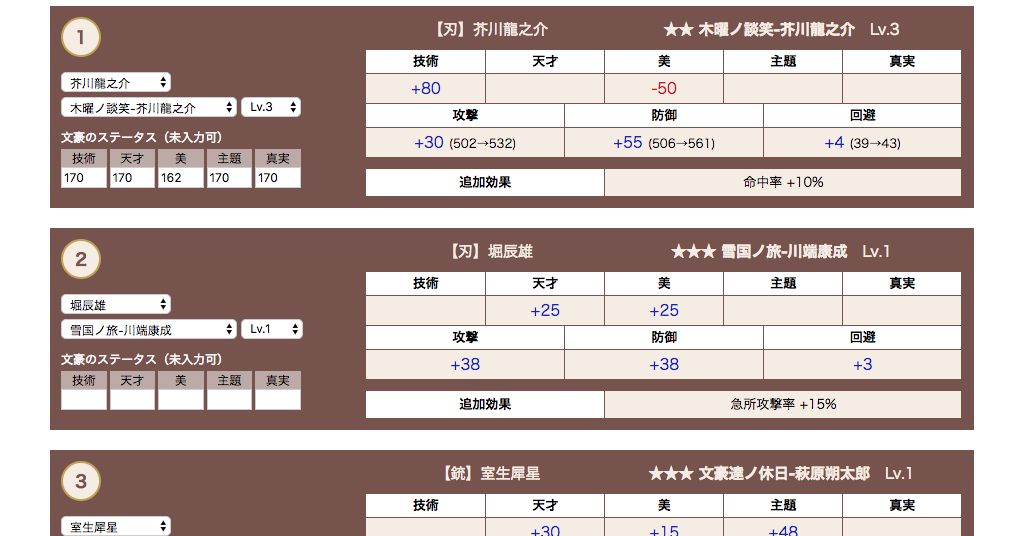
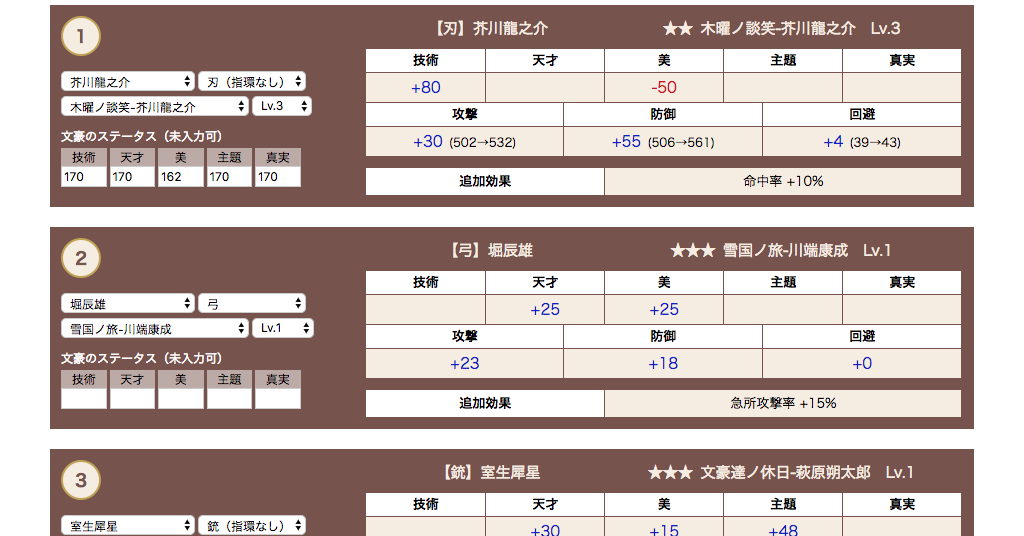
履歴更新など

diff --git a/src/pageinfo.js b/src/pageinfo.js
@@ -5,8 +5,8 @@ const meta = {
     '文豪とアルケミスト（文アル）の文豪と装像から攻撃・防御・回避の増減値をシミュレートするツール。文豪個別のステータス入力にも対応、攻撃・防御・回避の最終的な数値も出せます。さらに4人分入力できるので、会派編成にも装像比較にも使えます！',
   twauthor: '@kotorieclair',
   twcard: 'summary_large_image',
-  url: 'https://kotorieclair.github.io/bnal-souzou-calc/',
-  image: 'https://kotorieclair.github.io/bnal-souzou-calc/img/cover.png',
+  url: 'https://bnal-souzou-calc.netlify.com',
+  image: 'https://bnal-souzou-calc.netlify.com/img/cover.png',
 }
 
 const links = {
@@ -15,7 +15,7 @@ const links = {
     'https://twitter.com/hashtag/%E8%A3%85%E5%83%8F%E8%A8%88%E7%AE%97%E6%A9%9F?src=hash',
   marshmallow:
     'https://marshmallow-qa.com/kotorieclair?utm_medium=url_text&utm_source=promotion',
-  github: 'https://github.com/kotorieclair/bnal-souzou-calc/',
+  github: 'https://github.com/kotorieclair/bnal-souzou-calc-ts/',
 }
 
 module.exports = {

diff --git a/src/index.html b/src/index.html
@@ -37,8 +37,8 @@
       <p>詳しくは<a href="#help">ページ下部のご案内</a>をご覧ください。</p>
       <div class="header_flex">
         <p class="header_box">
-          2019.04.28　<span class="text-red">NEW!!</span> 文豪と装像のデータ、追加いたしました！<br>
-          2019.02.26　装像「甘心ノ茶席」「猫町ノ幻燈」「動物そろばん」追加いたしました！<br>
+          2019.06.17　<span class="text-red">NEW!!</span> お待たせいたしました、指環に対応いたしました！文豪「コナン・ドイル」「ルイス・キャロル」も追加です！<br>
+          2019.06.14　2019/6/13までの文豪と装像のデータ、たくさん追加いたしました！<br>
           （その他お知らせはTwitterにてハッシュタグ <a href="<%= htmlWebpackPlugin.options.links.twitterInfo %>" target="_blank">#装像計算機</a> で行なっております。そちらもご覧ください！）
         </p>
         <p class="header_box">

diff --git a/src/app.tsx b/src/app.tsx
@@ -1,6 +1,7 @@
 import * as React from 'react'
 import * as ReactDOM from 'react-dom'
 import BnalSouzouCalc from '~/components/BnalSouzouCalc'
+import '~/img/cover.png'
 import {
   initialState as data,
   StateContext as DataStateContext,

diff --git a/README.md b/README.md
@@ -1,0 +1,47 @@
+# bnal-souzou-calc
+
+文豪とアルケミスト（文アル）の文豪と装像から攻撃・防御・回避の増減値をシミュレートするツール。  
+文豪個別のステータス入力にも対応、攻撃・防御・回避の最終的な数値も算出可能。  
+4人分入力可能なので、会派編成にも同一文豪での装像比較にも使えます！
+
+## 更新履歴
+- 2019.06.17 - ver. 2公開（指環機能実装、React+TS化）、文豪データ更新（コナン・ドイル、ルイス・キャロル）
+- 2019.06.14 - 文豪データ（三木露風）、装像データ（★3忠心ノ相棒、★3旅枕ノ定式、★3牧歌ト陽光、★3丁カ半カ、★3孤高ノ賭博師、★3奇術師ノ独擅場、★3形家ノ心眼、★2蔽ワレシ擬態者）追加
+- 2019.04.28 - 文豪データ（中里介山）、装像データ（★3桜花ノ杯、★3添イ寝ノ友、★3満腹ノ作リ方、★3夢想ノ偶像、★3集イシ英傑、★3暮春ノ行楽、★1緑の使者、★1色褪せた画材）追加
+- 2019.02.26 - 装像データ（★3甘心ノ茶席、★3猫町ノ幻燈、★1動物そろばん）追加
+- 2019.02.02 - 文豪データ（徳冨蘆花）、装像データ（★3執事ノ歓待）追加
+- 2019.01.21 - 装像データ（★3新雪ノ雪宿）追加
+- 2019.01.13 - 装像データ（★3真椿二細雪、★3新春來福、★3百戦錬磨ノ二人、★1御節料理）追加
+- 2018.12.25 - 装像データ（★3歳末ノ煤払イ）追加
+- 2018.12.19 - 装像データ（★3聖夜ノ宴）追加
+- 2018.12.13 - 文豪データ（吉井勇）追加、ヘルプ文修正
+- 2018.12.11 - 装像データ（★3読書家ノ栖、★2明星ニ酔ウ）追加
+- 2018.12.01 - 装像データ（★3幻惑ノ怪盗団、★1特別なウィスキー）追加
+- 2018.11.21 - 文豪データ（岩野泡鳴）、装像データ（★3舞踏ノ夜会）追加
+- 2018.11.11 - 装像データ（★3晩秋ヲ詠ム、★2斜陽ノ暗影）追加
+- 2018.11.02 - 文豪データ（高浜虚子、河東碧梧桐）追加
+- 2018.10.31 - 装像データ（★3晴舞台ニ煌メク、★2双璧ノ朱、★2双璧ノ碧）追加
+- 2018.10.21 - 装像データ（★3笑ミノ眉開ク）追加
+- 2018.10.18 - 文豪データ（エド、アル）、装像データ（★1〜3鋼の錬金術師）追加
+- 2018.10.11 - 装像データ（★3湯煙二集ウ）追加
+- 2018.10.06 - 装像データ（★3舞踏ノ誘イ）追加
+- 2018.10.01 - 装像データ（★3一夜ノ悪戯）追加
+- 2018.09.21 - 装像データ（★3文机ヲ燈ス）追加
+- 2018.09.11 - 文豪データ（伊藤左千夫）、装像データ（★3蒼天ト共ニ）追加
+- 2018.09.01 - 装像データ（★3月二詩情溢レ、★2長月ノ牧歌）追加
+- 2018.08.21 - 装像データ（★3盛夏ノ余暇、★1羊のまくら）追加
+- 2018.08.11 - 装像データ（★3青ノ休暇）追加
+- 2018.08.01 - 文豪データ（山本有三）、装像データ（★3夜半ノ怪異譚）追加
+- 2018.07.21 - 文豪データ（直木三十五）、装像データ（★3騎手ノ手解キ、★2心ノ陽光）追加
+- 2018.07.11 - 装像データ（★3一夏ノ心覚）追加
+- 2018.07.01 - 装像データ（★3星合ノ天）追加
+- 2018.06.21 - 装像データ（★3青時雨ト蝸牛）追加、一部装像データ更新
+- 2018.06.11 - 装像データ（★3夜ノ遊興）追加
+- 2018.06.08 - ＜SNSでのスクショ公開・リンクについて＞追記
+- 2018.06.01 - 装像データ（★3木陰ノ休息）追加
+- 2018.05.20 - 装像データ（★3図書館ノ軍医）追加
+- 2018.05.16 - スマホビュー対応
+- 2018.05.10 - 装像データ（★3放課後ノ弦音）追加
+- 2018.05.09 - 文豪データ（小川未明）追加、文豪ステータス入力欄実装
+- 2018.05.06 - 装像データ（★2赤イ物語）更新
+- 2018.05.02 - リリース
